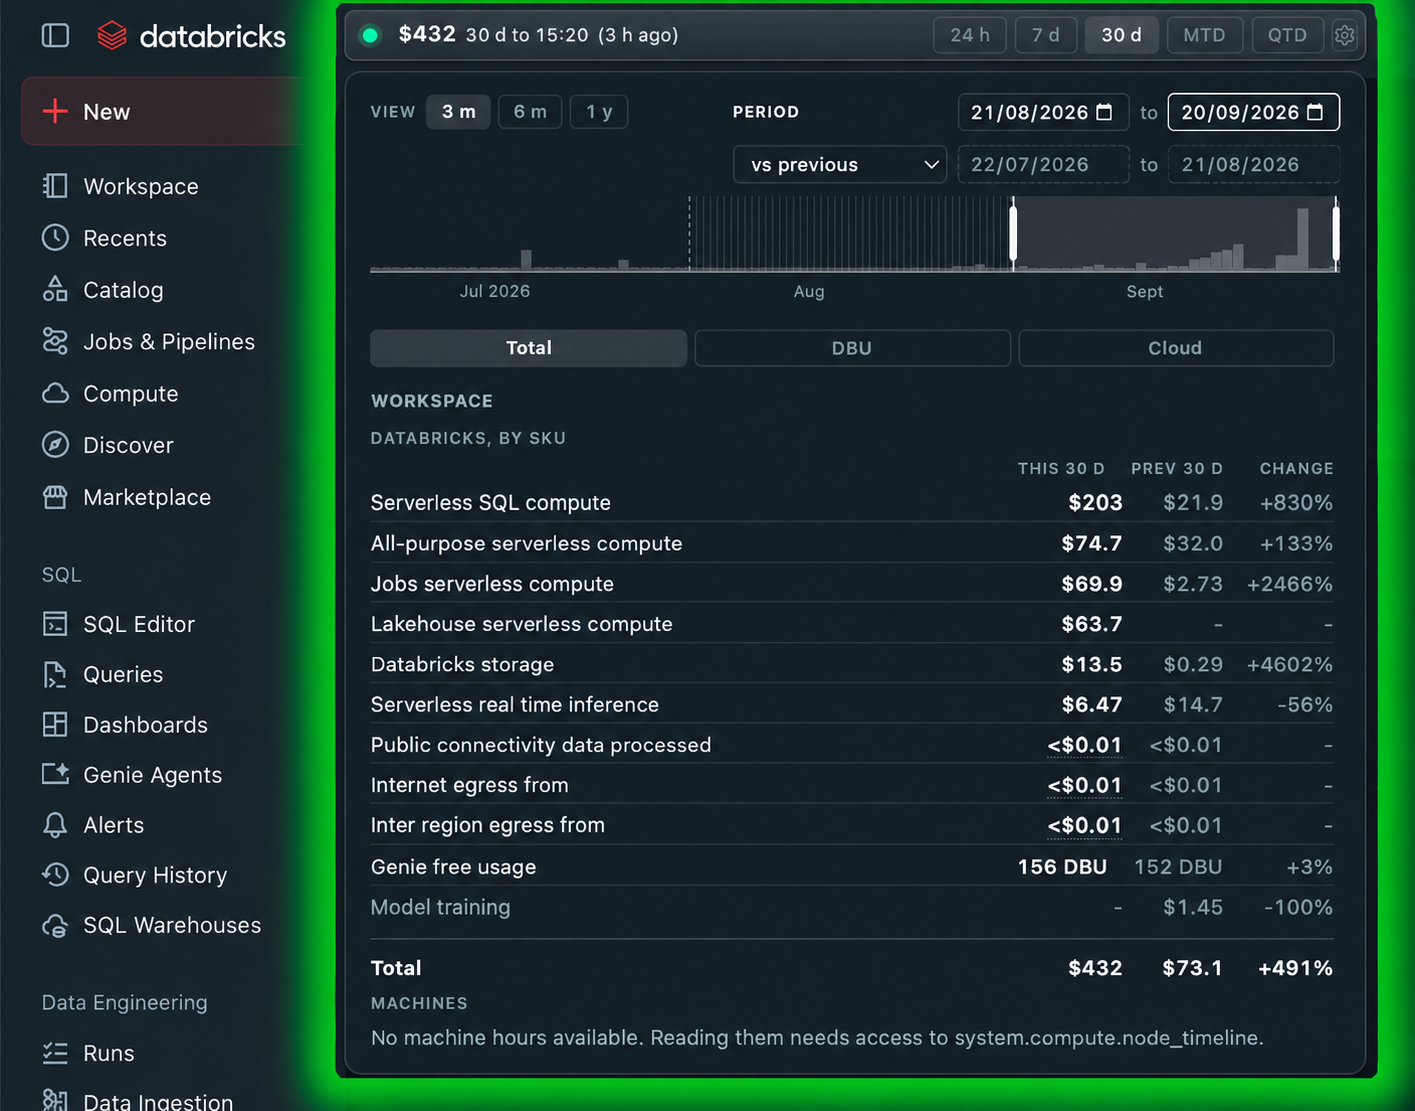
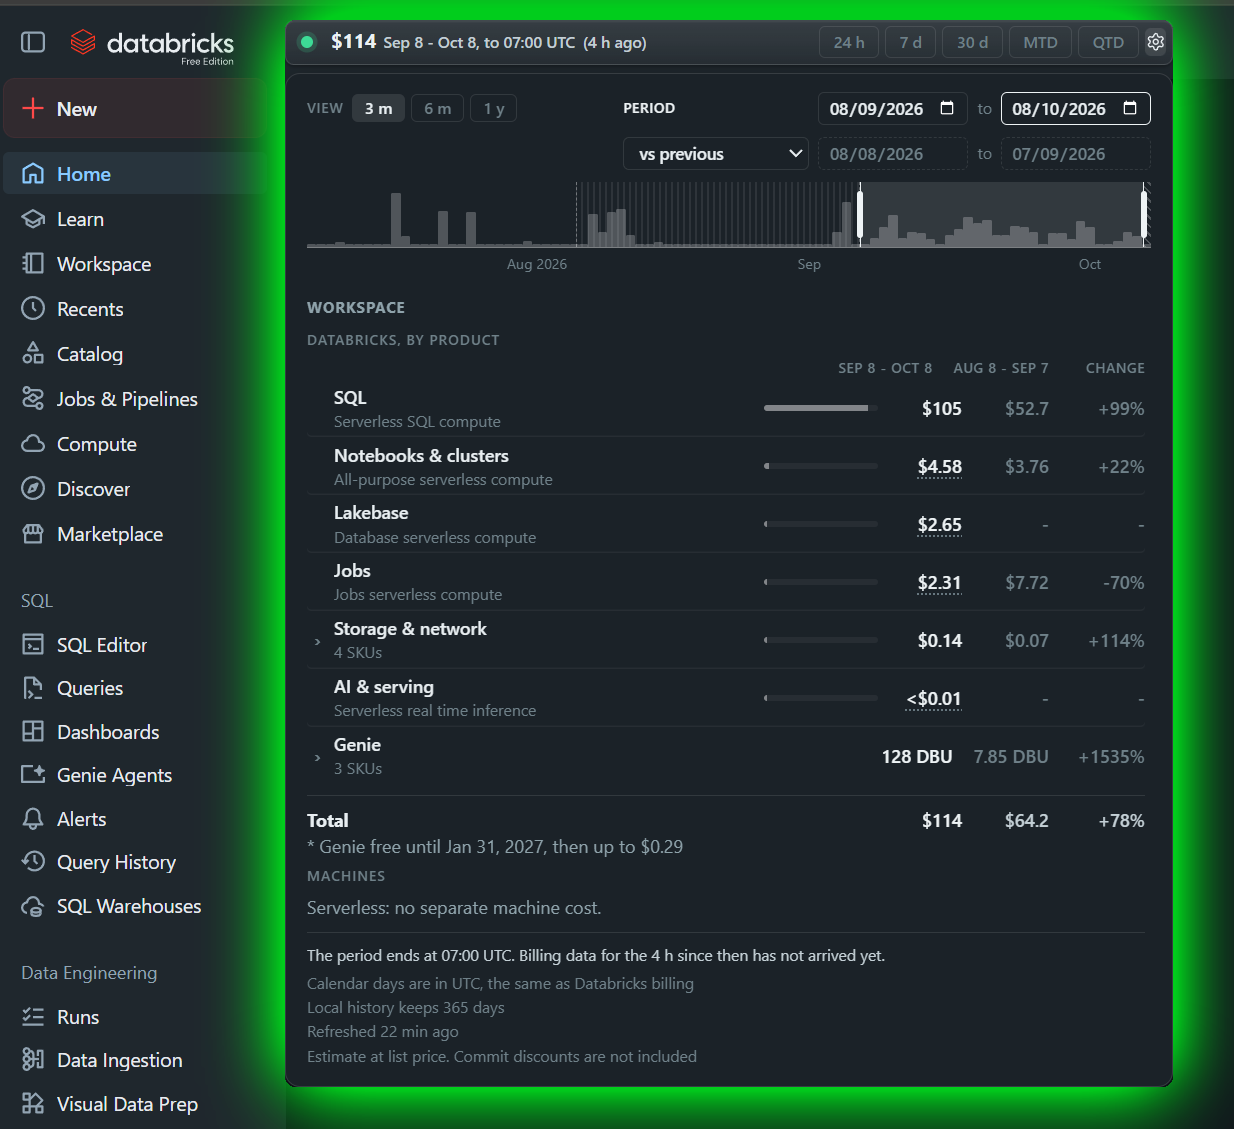
Dev (#21)
* add deployment workflow for server and remove GitHub Pages workflow

* refactor deployment workflow for clarity and environment matching

* fix

* css update

* fix experts

* fix menu

* fix UI experts

* fix

* sup

* fix contacts

* added Linkedin

* authors

* fix contacts

* ?v=021

* fix ilya

* fix imgs

* fix color

* test

* Security

* fix

* fix names

* upd

* Gov Hub

* fix

* Genie Agents

* Update image attributes for better responsiveness and loading performance in index.html

* Add WebP images and update index.html for improved image loading

* Add onboarding step 2-3 image in WEBP format

* Update stylesheet version to 037 and enhance image layout in CSS

* Update stylesheet version to 039 and refactor layout for improved clarity and responsiveness

* added articles

* fix menu

* guides

* test features

* SEO

* upd

* upd

* upd

* f

* step 0

* fix features

* pricing

* fix

* fix cloud costs

* fix

* fix

* fix

* fix

* fix

* fix

* fix

* fix features

* upd

* fix

* tmp

* test

* test

* sql

* upd

* fix

* fix2

* f

* f

* genie

* genie

* fix

* genie

* fix

* fix

* fix sidebar

* ui

* fix

* css

* fix

* fix menu

* sidebar

* fix

* fix

* fix support

* fix footer

* added imgs

* fix

* fix

* SEO fix

* fix price

* fix

* Update menu.js version across multiple pages and adjust related HTML files

- Updated menu.js version from v004 to v005 in various HTML files to ensure consistency and functionality.
[…]

diff --git a/public/styles.css b/public/styles.css
@@ -330,6 +330,12 @@ a:focus-visible,
   min-width: 0;
 }
 
+/* The hero screenshot is near square; keep it to the old landscape shot's height. */
+.hero_right .shot {
+  width: 86%;
+  margin: 0 auto;
+}
+
 .hero_left h1 .databricks-mark {
   display: inline-block;
   height: 0.82em;

diff --git a/public/features/index.php b/public/features/index.php
@@ -5,7 +5,7 @@ $page = [
   'path' => '/features/',
   'og_title' => 'Databricks Cost Banner | FinOpsWay',
   'og_description' => 'See workspace spend, reporting periods and billing freshness in the Databricks interface.',
-  'image' => 'https://finopsway.com/img/examples/workspace-cost-popover-960.jpg',
+  'image' => 'https://finopsway.com/img/examples/workspace-cost-popover-20261008-960.jpg',
   'image_alt' => 'FinOpsWay cost banner and expanded workspace cost details in Databricks.',
   'json_ld' => <<<'JSON'
 {"@context":"https://schema.org","@graph":[{"@type":"CollectionPage","@id":"https://finopsway.com/features/","url":"https://finopsway.com/features/","name":"Databricks Cost Banner","description":"See how FinOpsWay's Databricks cost banner summarizes workspace spend, reporting periods, billing freshness and cost details.","inLanguage":"en","isPartOf":{"@id":"https://finopsway.com/#website"},"mainEntity":{"@type":"ItemList","itemListElement":[{"@type":"ListItem","position":1,"name":"Databricks Cluster Costs","url":"https://finopsway.com/features/databricks-cluster-costs/"},{"@type":"ListItem","position":2,"name":"Databricks SQL Warehouse Costs","url":"https://finopsway.com/features/databricks-sql-warehouse-costs/"},{"@type":"ListItem","position":3,"name":"Databricks Job and Pipeline Costs","url":"https://finopsway.com/features/databricks-job-costs/"},{"@type":"ListItem","position":4,"name":"Databricks Job Run Costs","url":"https://finopsway.com/features/databricks-job-run-costs/"},{"@type":"ListItem","position":5,"name":"Databricks Notebook Costs","url":"https://finopsway.com/features/databricks-notebook-costs/"},{"@type":"ListItem","position":6,"name":"Databricks Apps Costs","url":"https://finopsway.com/features/databricks-apps-costs/"},{"@type":"ListItem","position":7,"name":"Databricks Lakebase Costs","url":"https://finopsway.com/features/databricks-lakebase-costs/"},{"@type":"ListItem","position":8,"name":"Databricks Genie Agent Costs","url":"https://finopsway.com/features/databricks-genie-agent-usage/"},{"@type":"ListItem","position":9,"name":"Databricks Genie Code Costs","url":"https://finopsway.com/features/databricks-genie-code-costs/"},{"@type":"ListItem","position":10,"name":"Databricks Serving Endpoint Costs","url":"https://finopsway.com/features/databricks-serving-endpoint-costs/"},{"@type":"ListItem","position":11,"name":"Databricks All-Purpose Cluster Costs","url":"https://finopsway.com/features/databricks-all-purpose-cluster-costs/"},{"@type":"ListItem","position":12,"name":"Databricks Serverless Cluster Costs","url":"https://finopsway.com/features/databricks-serverless-cluster-costs/"}]}},{"@type":"BreadcrumbList","itemListElement":[{"@type":"ListItem","position":1,"name":"Home","item":"https://finopsway.com/"},{"@type":"ListItem","position":2,"name":"Features","item":"https://finopsway.com/features/"}]}]}
@@ -19,12 +19,12 @@ include __DIR__ . '/../includes/header.php';
       <div class="banner-feature-overview">
         <figure class="shot banner-feature-shot">
           <picture>
-            <img src="/img/examples/workspace-cost-popover-960.jpg" width="960" height="754" fetchpriority="high" alt="FinOpsWay cost banner in the Databricks workspace with its expanded view showing reporting periods, a chart and cost by SKU." />
+            <img src="/img/examples/workspace-cost-popover-20261008-960.jpg" width="960" height="878" fetchpriority="high" alt="FinOpsWay cost banner in the Databricks workspace with its expanded view showing reporting periods, a chart and cost by product." />
           </picture>
-          <b class="pin" style="left: 22.5%; top: 4.1%" aria-hidden="true">1</b>
-          <b class="pin" style="left: 64.0%; top: 5.7%" aria-hidden="true">2</b>
-          <b class="pin" style="left: 90.1%; top: 18.4%" aria-hidden="true">3</b>
-          <b class="pin" style="left: 65.3%; top: 61%" aria-hidden="true">4</b>
+          <b class="pin" style="left: 21.9%; top: 3.7%" aria-hidden="true">1</b>
+          <b class="pin" style="left: 64.8%; top: 3.7%" aria-hidden="true">2</b>
+          <b class="pin" style="left: 90.8%; top: 17.7%" aria-hidden="true">3</b>
+          <b class="pin" style="left: 56.7%; top: 44.3%" aria-hidden="true">4</b>
         </figure>
         <ol class="callouts banner-feature-callouts">
           <li><b>Widget on every page</b>Cost display within your workspace</li>

diff --git a/public/index.php b/public/index.php
@@ -4,7 +4,7 @@ $page = [
   'description' => 'Track Databricks costs in your workspace with FinOpsWay, a free FinOps browser extension. View spending for jobs, clusters and pipelines in context.',
   'path' => '/',
   'og_title' => 'FinOpsWay - FinOps for Databricks | Track Databricks Costs',
-  'image' => 'https://finopsway.com/img/examples/workspace-cost-popover.jpg',
+  'image' => 'https://finopsway.com/img/examples/workspace-cost-popover-20261008.jpg',
   'image_alt' => 'FinOpsWay showing Databricks costs inside the workspace',
   'json_ld' => <<<'JSON'
 {
@@ -32,7 +32,7 @@ $page = [
         "price": "0",
         "priceCurrency": "USD"
       },
-      "screenshot": "https://finopsway.com/img/examples/workspace-cost-popover.jpg",
+      "screenshot": "https://finopsway.com/img/examples/workspace-cost-popover-20261008.jpg",
       "featureList": [
         "Databricks cost visibility in workspace navigation",
         "Cost context for jobs, clusters and pipelines",
@@ -65,13 +65,13 @@ include __DIR__ . '/includes/header.php';
         <div class="hero_right">
           <figure class="shot">
             <picture>
-              <img src="./img/examples/workspace-cost-popover.jpg" width="1415" height="1111" fetchpriority="high"
-                alt="A Databricks workspace home page. In the top navigation, a chip reads: workspace $3.13, 24 h to 18:00, 4 h ago. Open below it, a panel with 24 h, 7 d and 14 d tabs, a bar chart whose last hours are hatched, a table of cost per SKU against the previous 24 hours, and a note that the window ends at 18:00 because billing has not reported the four hours since." />
+              <img src="./img/examples/workspace-cost-popover-20261008.jpg" width="1234" height="1129" fetchpriority="high"
+                alt="A Databricks workspace home page. In the top navigation, a chip reads: $114, Sep 8 - Oct 8, to 07:00 UTC, 4 h ago, beside 24 h, 7 d, 30 d, MTD and QTD buttons. Open below it, a panel with a three-month bar chart and the selected period marked on it, a table of cost by product against the previous period, and a note that the period ends at 07:00 UTC because billing has not reported the four hours since." />
             </picture>
-            <b class="pin" style="left: 22.5%; top: 4.1%" aria-hidden="true">1</b>
-            <b class="pin" style="left: 64.0%; top: 5.7%" aria-hidden="true">2</b>
-            <b class="pin" style="left: 90.1%; top: 18.4%" aria-hidden="true">3</b>
-            <b class="pin" style="left: 65.3%; top: 61%" aria-hidden="true">4</b>
+            <b class="pin" style="left: 21.9%; top: 3.7%" aria-hidden="true">1</b>
+            <b class="pin" style="left: 64.8%; top: 3.7%" aria-hidden="true">2</b>
+            <b class="pin" style="left: 90.8%; top: 17.7%" aria-hidden="true">3</b>
+            <b class="pin" style="left: 56.7%; top: 44.3%" aria-hidden="true">4</b>
           </figure>
         </div>
       </div>

diff --git a/public/onboarding/index.php b/public/onboarding/index.php
@@ -4,7 +4,7 @@ $page = [
   'description' => 'Set up FinOpsWay to monitor Databricks costs. Install the free browser extension, configure a cluster and connect your Databricks workspace.',
   'path' => '/onboarding/',
   'og_title' => 'Databricks Cost Monitoring Guide | FinOpsWay',
-  'image' => 'https://finopsway.com/img/examples/workspace-cost-popover.jpg',
+  'image' => 'https://finopsway.com/img/examples/workspace-cost-popover-20261008.jpg',
   'image_alt' => 'FinOpsWay showing Databricks costs inside the workspace',
   'styles' => ['/onboarding/onboarding.css?v=007'],
   'scripts' => ['/onboarding/onboarding.js?v=002'],

diff --git a/public/privacy/index.php b/public/privacy/index.php
@@ -4,7 +4,7 @@ $page = [
   'description' => 'Learn how FinOpsWay handles Databricks cost data and workspace credentials. The browser extension has no backend or telemetry.',
   'path' => '/privacy/',
   'og_title' => 'Privacy Policy | FinOpsWay',
-  'image' => 'https://finopsway.com/img/examples/workspace-cost-popover.jpg',
+  'image' => 'https://finopsway.com/img/examples/workspace-cost-popover-20261008.jpg',
   'image_alt' => 'FinOpsWay showing Databricks costs inside the workspace',
 ];
 include __DIR__ . '/../includes/header.php';

diff --git a/public/includes/header.php b/public/includes/header.php
@@ -18,7 +18,7 @@ $compact = $page['compact'] ?? true;
   <link rel="icon" href="/favicon.ico" sizes="32x32" />
   <link rel="icon" href="/img/favicon.svg" type="image/svg+xml" />
   <link rel="apple-touch-icon" href="/apple-touch-icon.png" />
-  <link rel="stylesheet" href="/styles.css?v=069" />
+  <link rel="stylesheet" href="/styles.css?v=070" />
   <script src="/menu.js?v=006" defer></script>
 <?php foreach ($page['styles'] ?? [] as $href): ?>
   <link rel="stylesheet" href="<?= $e($href) ?>" />
